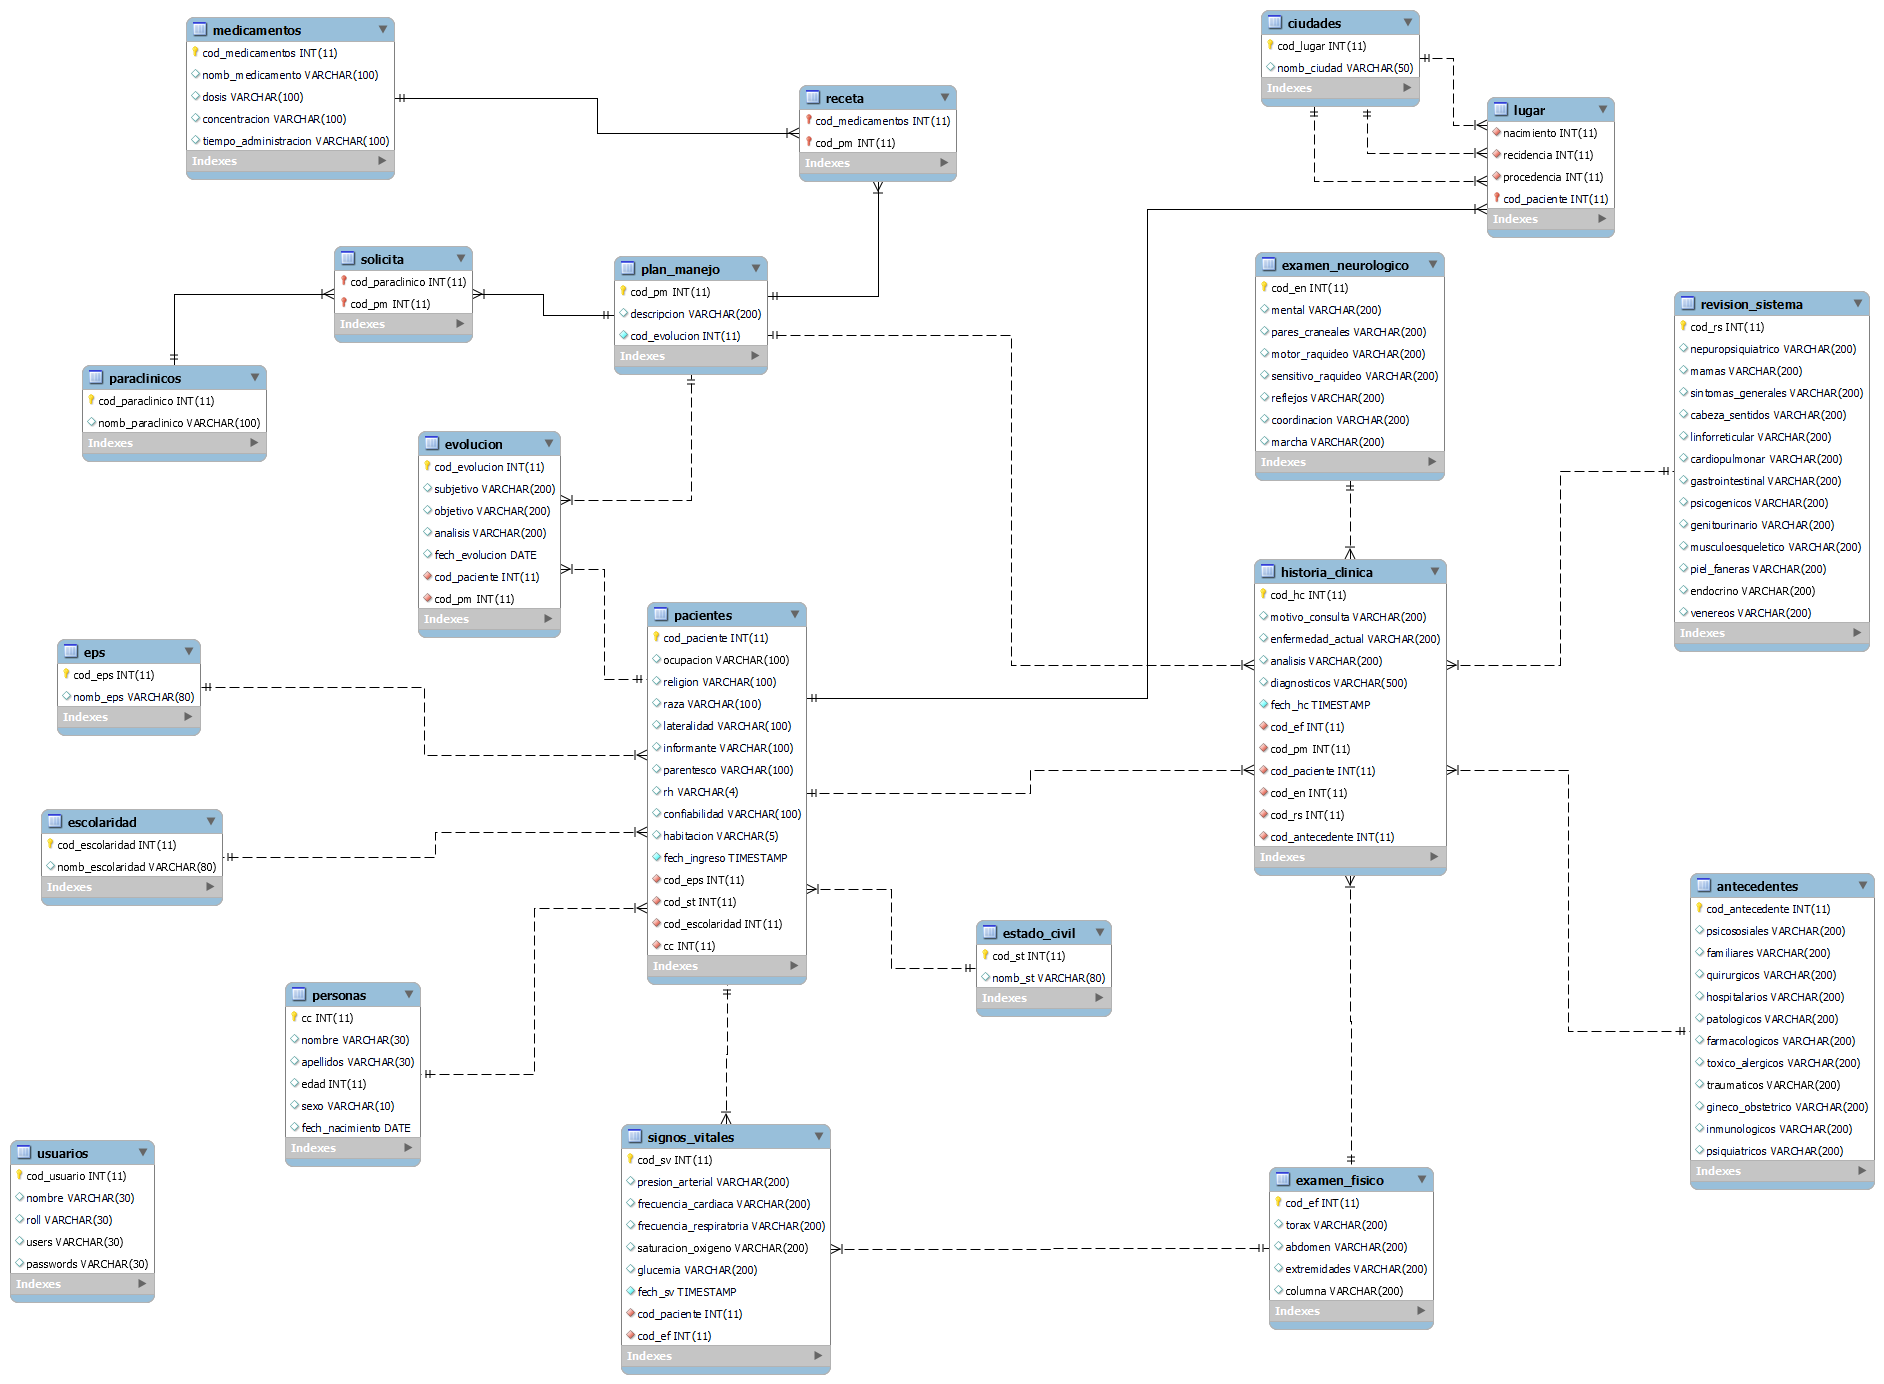
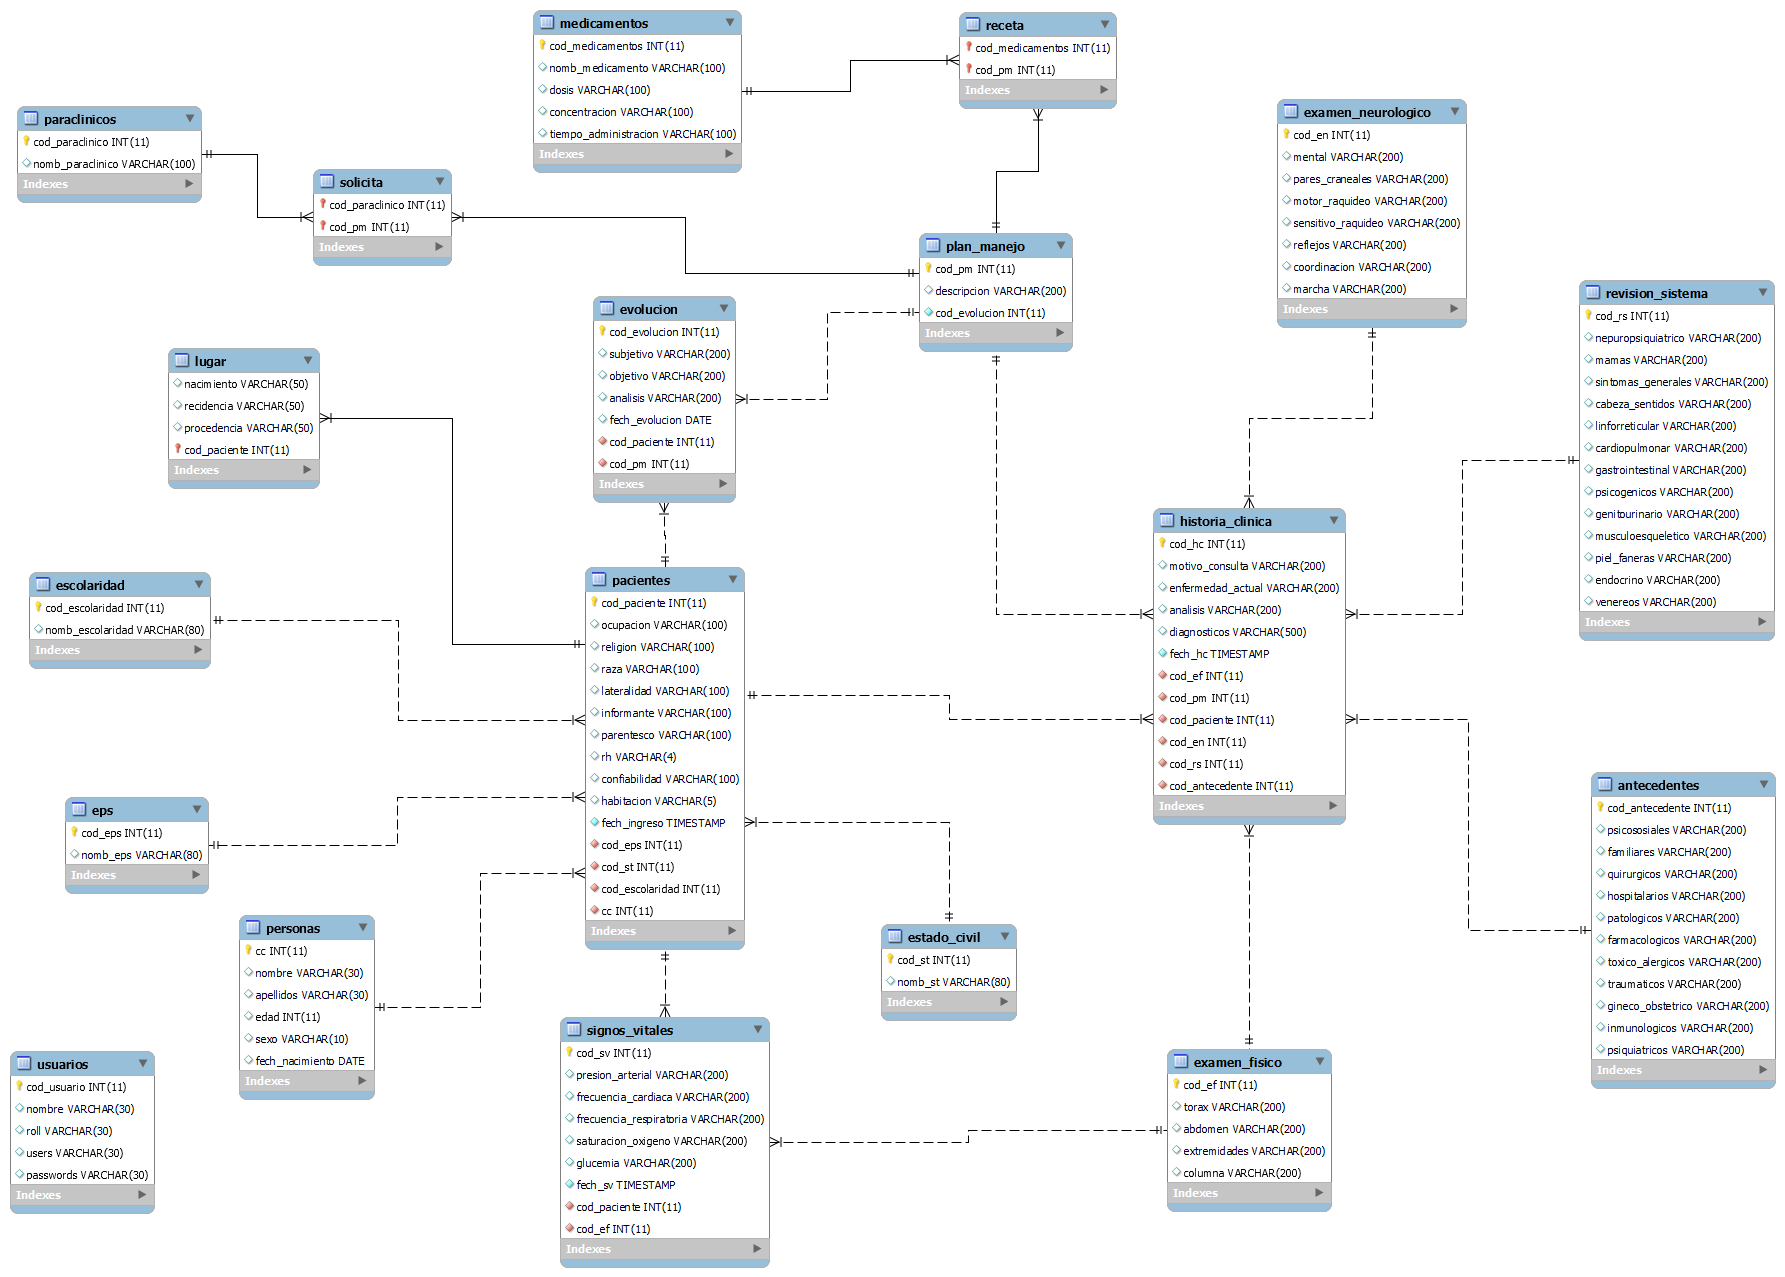
Update MER

diff --git a/Backend/src/main/java/com/medical/soft/persistence/entity/Lugar.java b/Backend/src/main/java/com/medical/soft/persistence/entity/Lugar.java
@@ -19,6 +19,9 @@ public class Lugar {
     @JoinColumn(name = "cod_paciente", insertable = false, updatable = false)
     private Paciente paciente;
 
+    @ManyToOne
+    @JoinColumn(name = "cod_lugar", insertable = false, updatable = false)
+    private Ciudad ciudad;
 
     // Methods
 
